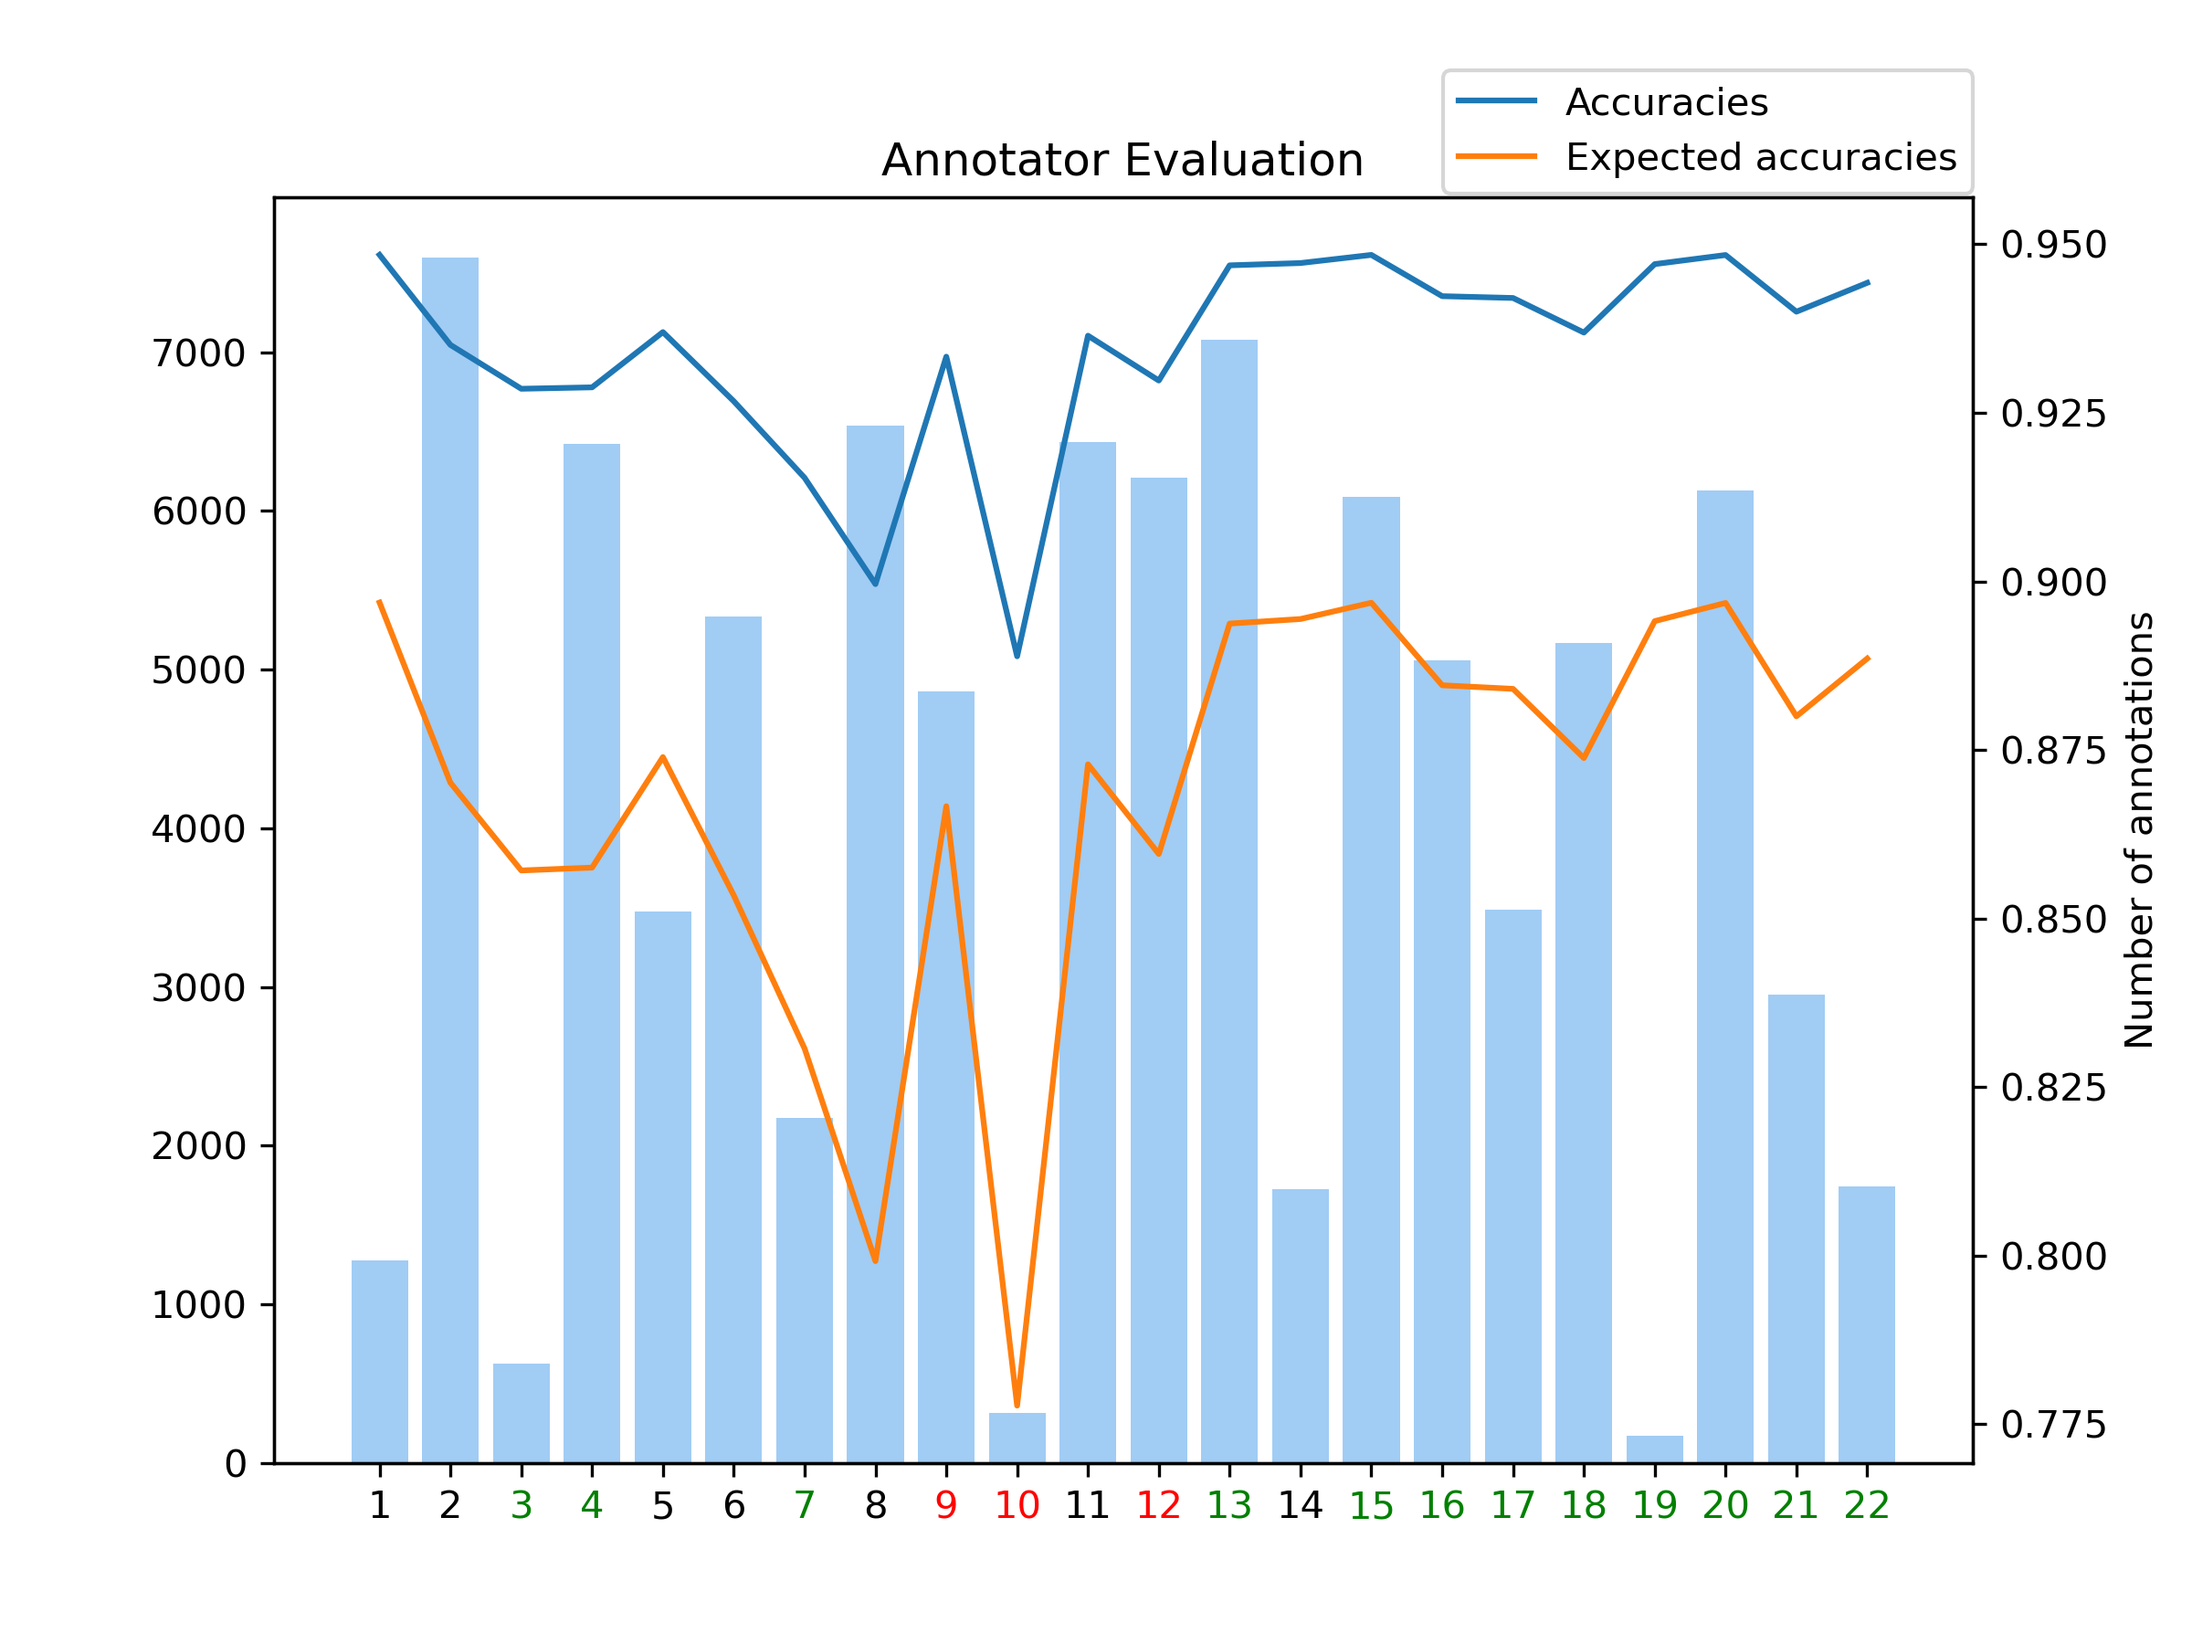
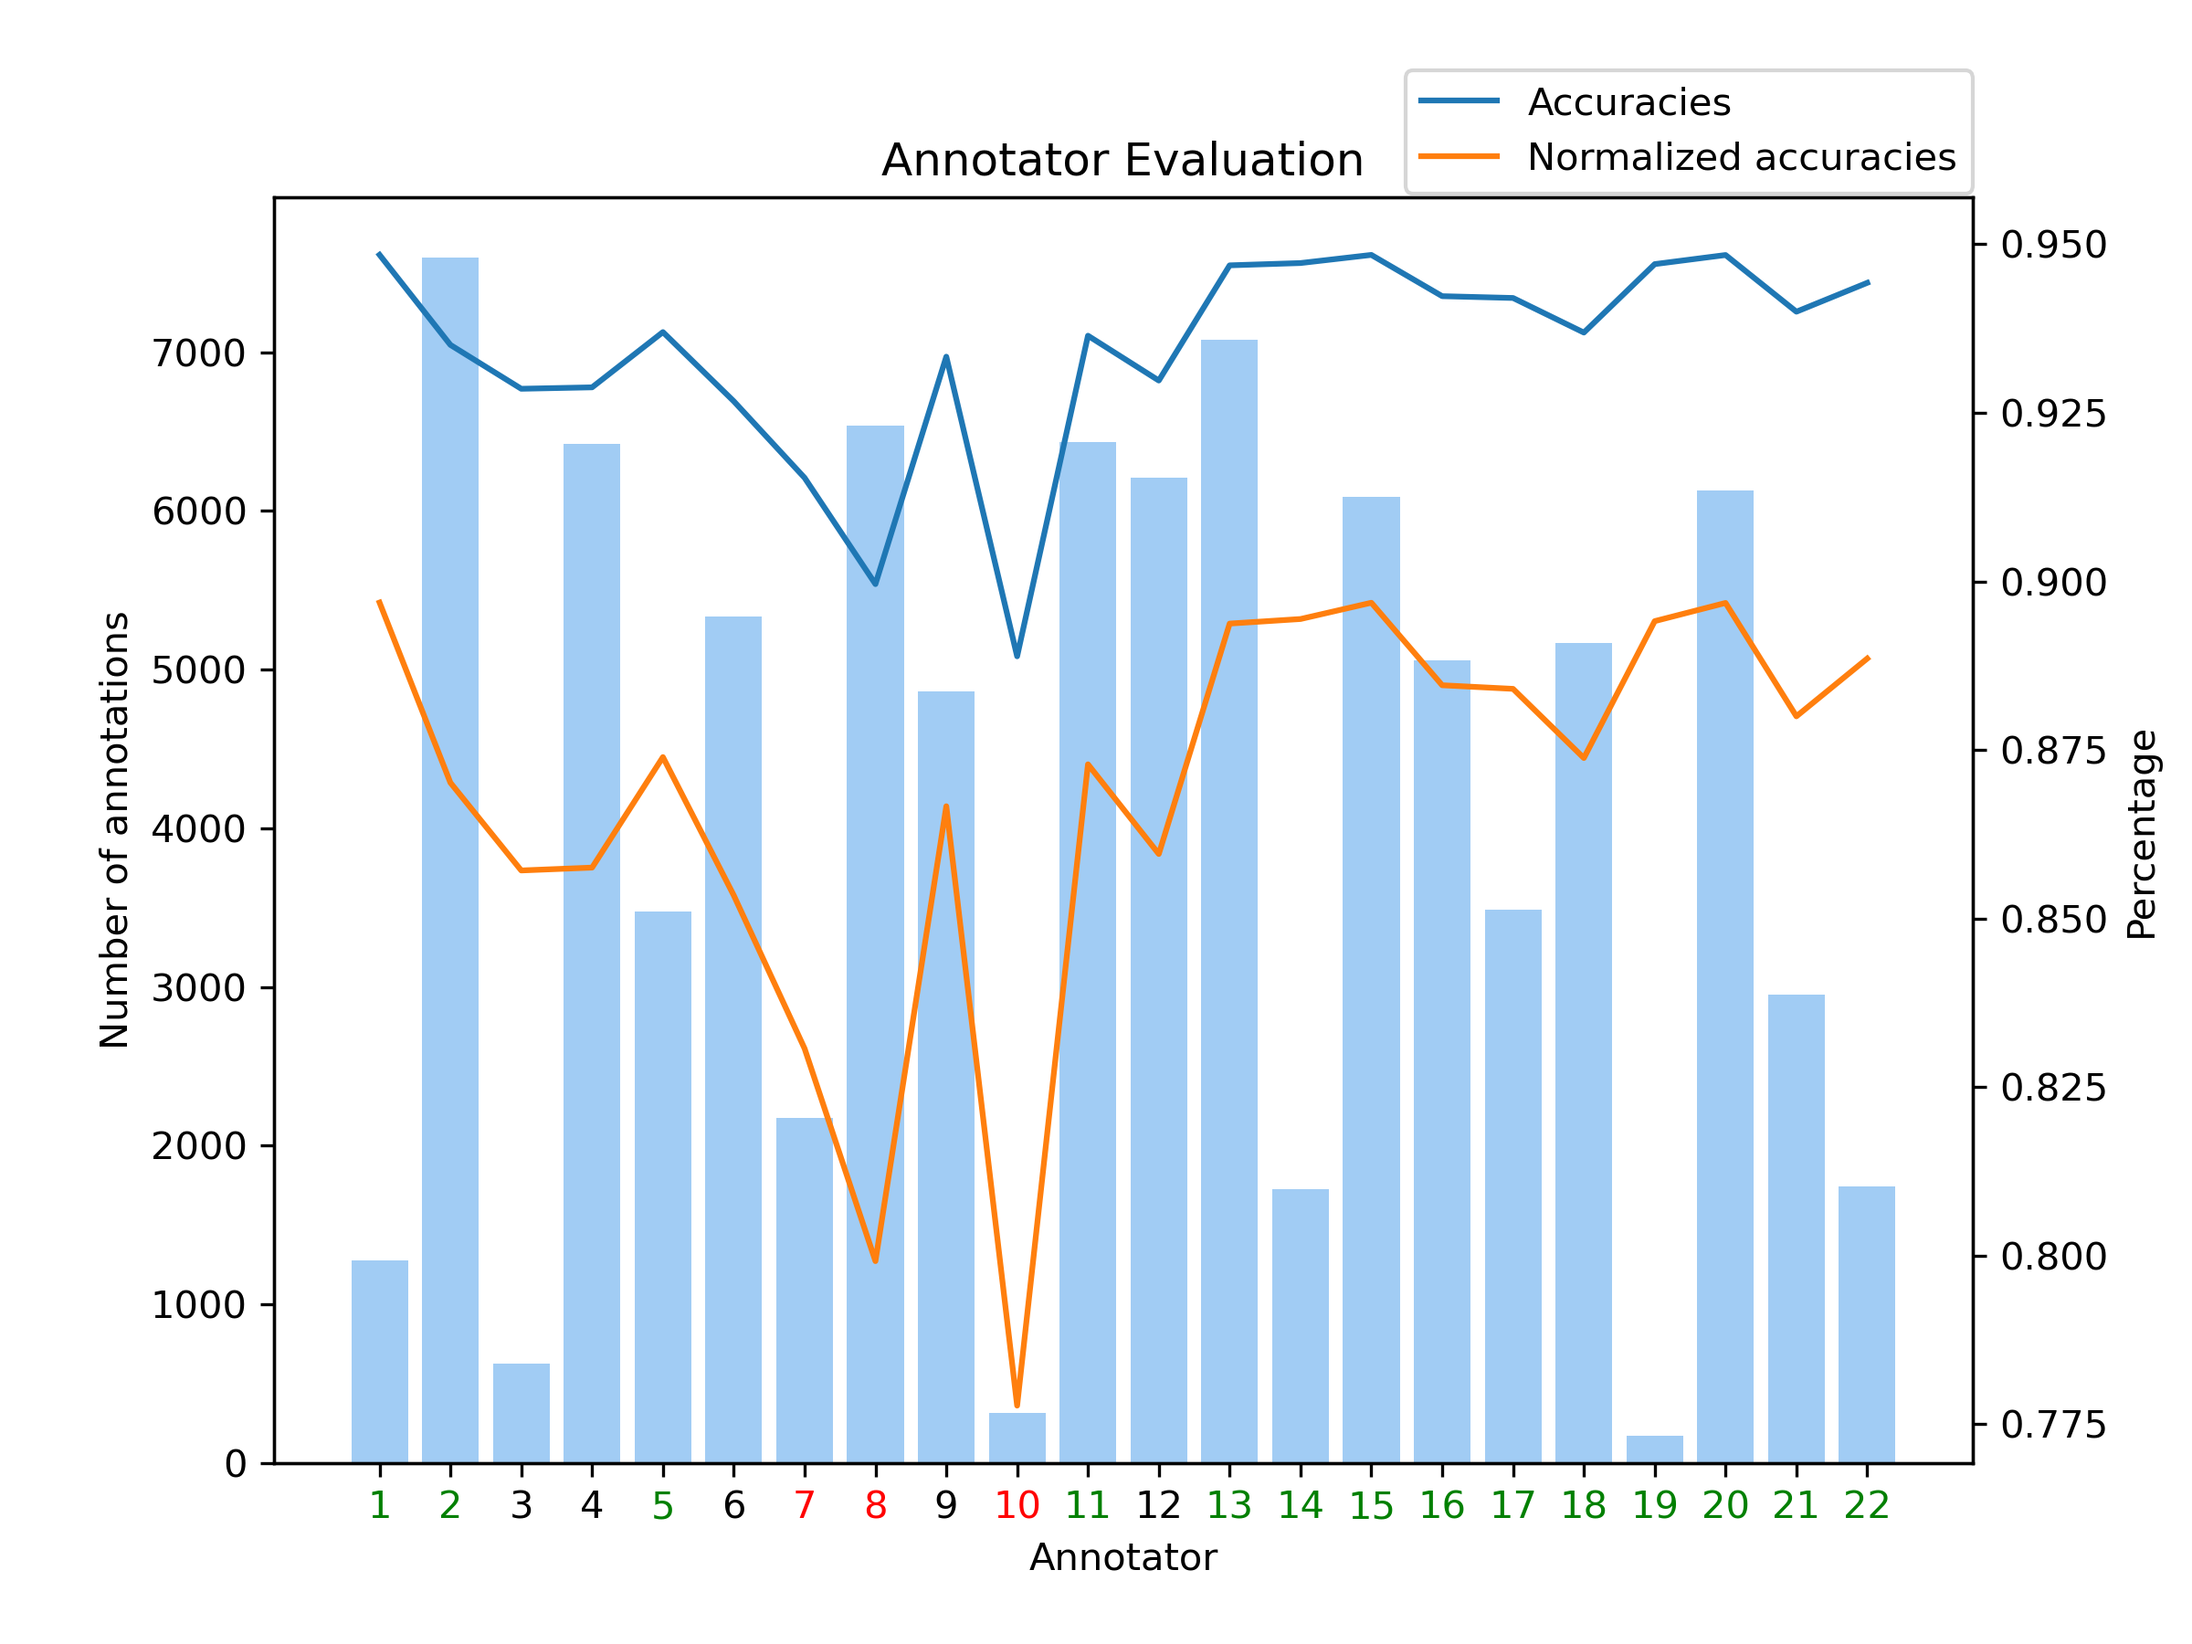
plot formatting

diff --git a/annotator_and_reference_set_analysis.py b/annotator_and_reference_set_analysis.py
@@ -56,6 +56,9 @@ def plot_annotator_results(
     fig = plt.figure(figsize=(8, 6), dpi=300)
     annotator_result_count: dict = annotator_results['annotator_result_count']
     plt.bar(annotator_result_count.keys(), annotator_result_count.values(), color='#a1ccf4')
+    plt.title(f'{title}')
+    plt.xlabel('Annotator')
+    plt.ylabel('Number of annotations')
     current_axes = plt.gca()
     current_axes.axes.get_xaxis().set_major_locator(ticker.MultipleLocator(1))  # show every annotator on the x-axis
     current_axes.axes.get_xaxis().set_ticks(list(annotator_result_count.keys()))  # set ticks only for annotators
@@ -64,9 +67,9 @@ def plot_annotator_results(
         for idx, tick_label in enumerate(
             current_axes.get_xaxis().get_ticklabels()
         ):  # color tick labels for special annotators
-            if idx - 1 in bad_annotators:
+            if idx + 1 in task_results['bad_annotators']:
                 tick_label.set_color('red')
-            elif idx - 1 in good_annotators:
+            elif idx + 1 in task_results['good_annotators']:
                 tick_label.set_color('green')
         ax2 = plt.twinx()  # axis for accuracies
 
@@ -77,15 +80,12 @@ def plot_annotator_results(
         )
         ax2.plot(
             annotator_result_count.keys(),
-            annotator_results['stats']['expected_accuracies'],
-            label='Expected accuracies',
+            annotator_results['stats']['adjusted_accuracies'],
+            label='Normalized accuracies',
         )
         ax2.set_ylabel('Percentage')
         ax2.legend(bbox_to_anchor=(1, 1.1), loc=1, borderaxespad=0)
 
-    plt.title(f'{title}')
-    plt.xlabel('Annotator')
-    plt.ylabel('Number of annotations')
     fig.savefig(PLOT_PATH / f'{f_name}.png')
 
 
@@ -293,8 +293,8 @@ for idx, tick_label in enumerate(current_axes.get_xaxis().get_ticklabels()):  # 
         tick_label.set_color('red')
 
 plt.xlabel('Annotators')
-plt.ylabel('Time: MM-DD-HH')
-plt.title('Annotator times')
+plt.ylabel('Time: MM-DD HH')
+plt.title('Annotation times')
 fig.savefig(PLOT_PATH / 'annotation_times.png')
 
 
@@ -338,7 +338,7 @@ annotator_df.sort_index(inplace=True)  # sort numerically by annotator
 get_annotator_statistics_from_df(annotator_df, task_results)
 
 # expected accuracy through random chance based on data frequency
-task_results['stats']['expected_accuracies'] = [
+task_results['stats']['adjusted_accuracies'] = [
     norm_accuracy_by_data_freq(
         acc, [images_with_bicycles_count / images_count, images_without_bicycles_count / images_count]
     )
@@ -355,5 +355,8 @@ for idx, acc in enumerate(task_results['stats']['accuracies']):
         task_results['stats']['accuracies']
     ):  # bad annotators
         bad_annotators.append(idx + 1)
+
+task_results['good_annotators'] = good_annotators  # list of annotator numbers
+task_results['bad_annotators'] = bad_annotators  # list of annotator numbers
 
 plot_annotator_results(task_results, title='Annotator Evaluation', f_name='annotator_evaluation')
